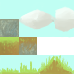
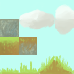
tried to make tilemap and tileset 320x320

diff --git a/game.js b/game.js
@@ -98,37 +98,38 @@ var gameRunning = false;
 PIXI.SCALE_MODES.DEFAULT = PIXI.SCALE_MODES.NEAREST;
 
 PIXI.loader
-  .add( 'map_json', 'map.json' )
+  .add( 'tilemap_json', 'tilemap.json' )
 	.add( 'testroom_json', 'testroom.json' )
-  .add( 'tilemap',  'tilemap.png' )
   .add( 'blob',     'player_character.png' )
 	.add( 'tileset',  'tileset.png' )
+	.add( 'tiles', 'tileset_2.png' )
   .load(ready);
 	
 
-function ready() 
+function ready()
 {
 	
   var tu = new TileUtilities(PIXI);
-  world = tu.makeTiledWorld( "testroom_json", "tileset.png" );
-	
- 
+  world = tu.makeTiledWorld( "tilemap_json", "tileset_2.png" );
+
+	/*
   var blob = world.getObject("blob");
- 
+	
   player = new PIXI.Sprite(PIXI.loader.resources.blob.texture);
+	
   player.x = blob.x;
   player.y = blob.y;
   player.anchor.x = 0.0;
   player.anchor.y = 1.0;
 
   // Find the entity layer
-	
   var entity_layer = world.getObject("Entities");
   entity_layer.addChild(player);	
-	 
 
+	*/ 
   player.direction = MOVE_NONE;
   player.moving = false;
+	
   
 }
 
@@ -256,11 +257,13 @@ function startButtonClickHandler( e )
   // Remove the title screen from the stage
 	stage.removeChild( titleScreen );
   // Add the container that holds the main game to the stage
+	
 	GameLoop();
 	stage.addChild( gameScreen );
 	stage.addChild( world );
 	gameScreen.addChild( playerVis );
 	gameRunning = true;
+	
 	renderer.backgroundColor = 0xffb18a;
 	gameScreen.addChild( backButton );
 	}
